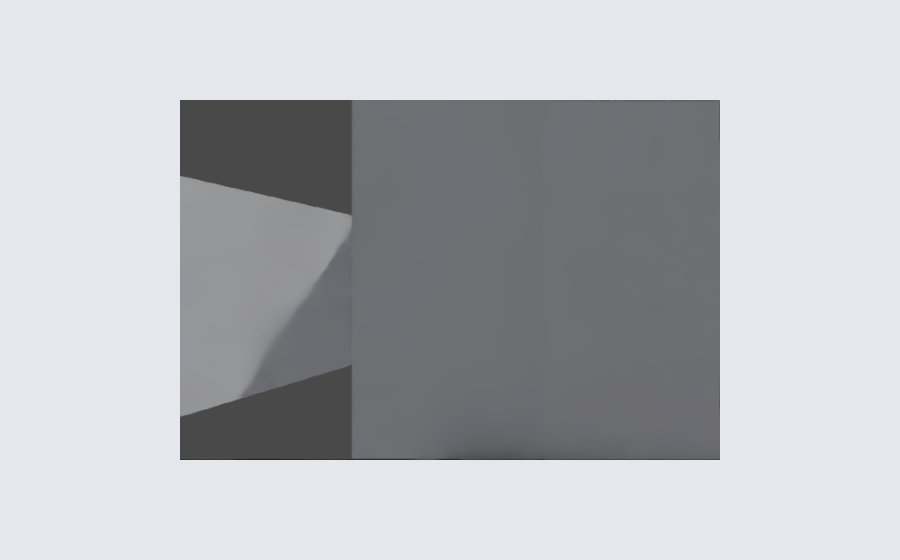
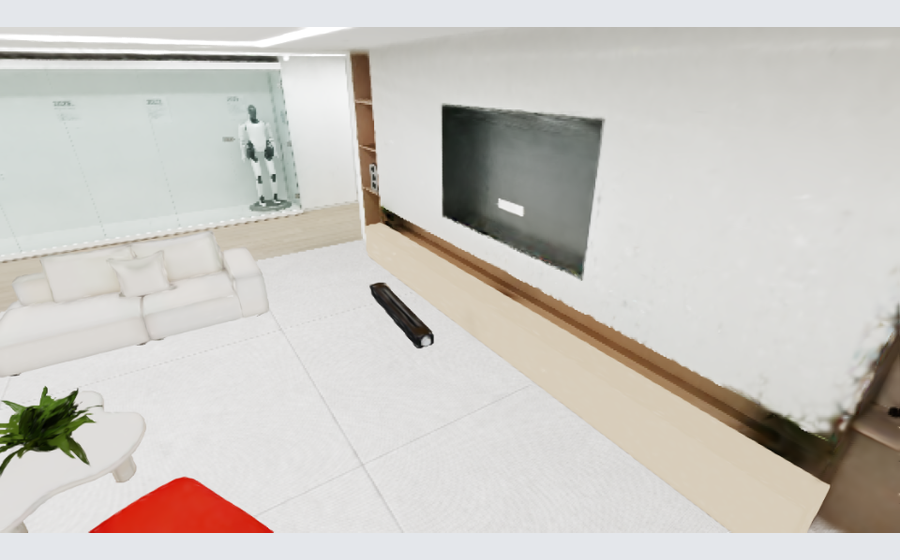
fix: use prepared b1 nurec scene by default

diff --git a/roboclaws/household/b1_nurec_scene.py b/roboclaws/household/b1_nurec_scene.py
@@ -1,0 +1,72 @@
+from __future__ import annotations
+
+import os
+import shutil
+import zipfile
+from pathlib import Path
+
+DEFAULT_B1_NUREC_CACHE_ROOT = Path("output/b1-map12/prepared-nurec-scene")
+_USDZ_REFERENCE = "@./xm_large_scene.usdz@"
+_SCENE_REFERENCE = "@./scene.usd@"
+_USDZ_MEMBERS = ("default.usda", "gauss.usda", "xm_large_scene.nurec")
+
+
+def prepare_b1_nurec_scene_usd(
+    scene_usd_path: Path | None,
+    *,
+    cache_root: Path | None = None,
+) -> Path | None:
+    if scene_usd_path is None:
+        return None
+    scene_usd_path = Path(scene_usd_path)
+    usdz_path = scene_usd_path.with_name("xm_large_scene.usdz")
+    if scene_usd_path.name != "scene_gs.usda" or not usdz_path.is_file():
+        return scene_usd_path
+    source_text = scene_usd_path.read_text(encoding="utf-8")
+    if _USDZ_REFERENCE not in source_text:
+        return scene_usd_path
+
+    cache_dir = _cache_root(cache_root) / scene_usd_path.parent.name
+    unpack_dir = cache_dir / "xm_large_scene_unpacked"
+    unpack_dir.mkdir(parents=True, exist_ok=True)
+    with zipfile.ZipFile(usdz_path) as archive:
+        for member in _USDZ_MEMBERS:
+            _extract_if_needed(archive, member, unpack_dir / member)
+
+    prepared_scene = cache_dir / "scene_gs.unpacked_nurec.usda"
+    prepared_text = source_text.replace(
+        _SCENE_REFERENCE,
+        f"@{scene_usd_path.with_name('scene.usd').resolve().as_posix()}@",
+    ).replace(
+        _USDZ_REFERENCE,
+        f"@{(unpack_dir / 'default.usda').resolve().as_posix()}@",
+    )
+    _write_if_changed(prepared_scene, prepared_text)
+    return prepared_scene
+
+
+def _cache_root(cache_root: Path | None) -> Path:
+    if cache_root is not None:
+        return cache_root
+    return Path(os.environ.get("ROBOCLAWS_B1_NUREC_CACHE_DIR", str(DEFAULT_B1_NUREC_CACHE_ROOT)))
+
+
+def _extract_if_needed(archive: zipfile.ZipFile, member: str, output_path: Path) -> None:
+    info = archive.getinfo(member)
+    if output_path.is_file() and output_path.stat().st_size == info.file_size:
+        return
+    tmp_path = output_path.with_name(f"{output_path.name}.tmp.{os.getpid()}")
+    try:
+        with archive.open(member) as src, tmp_path.open("wb") as dst:
+            shutil.copyfileobj(src, dst)
+        tmp_path.replace(output_path)
+    finally:
+        if tmp_path.exists():
+            tmp_path.unlink()
+
+
+def _write_if_changed(path: Path, text: str) -> None:
+    if path.is_file() and path.read_text(encoding="utf-8") == text:
+        return
+    path.parent.mkdir(parents=True, exist_ok=True)
+    path.write_text(text, encoding="utf-8")

diff --git a/tests/unit/molmo_cleanup/test_isaac_lab_backend.py b/tests/unit/molmo_cleanup/test_isaac_lab_backend.py
@@ -4,12 +4,14 @@ import json
 import math
 import sys
 import types
+import zipfile
 from pathlib import Path
 from types import SimpleNamespace
 
 import pytest
 from PIL import Image, ImageDraw
 
+from roboclaws.household.b1_nurec_scene import prepare_b1_nurec_scene_usd
 from roboclaws.household.isaac_lab_backend import (
     ISAAC_SCENE_INDEX_ARTIFACT_SCHEMA,
     ISAAC_SEMANTIC_POSE_PROVENANCE,
@@ -20,6 +22,71 @@ from roboclaws.household.isaac_lab_backend import (
     IsaacLabSubprocessBackend,
 )
 from scripts.isaac_lab_cleanup import isaac_lab_backend_worker
+
+
+def test_prepare_b1_nurec_scene_unpacks_usdz_reference(tmp_path: Path) -> None:
+    scene_gs = _write_b1_scene_gs_fixture(tmp_path / "storey_1")
+
+    prepared = prepare_b1_nurec_scene_usd(scene_gs, cache_root=tmp_path / "cache")
+
+    assert prepared == tmp_path / "cache" / "storey_1" / "scene_gs.unpacked_nurec.usda"
+    text = prepared.read_text(encoding="utf-8")
+    assert "xm_large_scene.usdz" not in text
+    assert "xm_large_scene_unpacked/default.usda" in text
+    assert (prepared.parent / "xm_large_scene_unpacked" / "xm_large_scene.nurec").read_bytes() == (
+        b"nurec"
+    )
+
+
+def test_isaac_backend_prepares_b1_scene_gs_before_worker_init(
+    tmp_path: Path,
+    monkeypatch: pytest.MonkeyPatch,
+) -> None:
+    scene_gs = _write_b1_scene_gs_fixture(tmp_path / "source")
+    captured_init_args: list[str] = []
+    original_run_worker = IsaacLabSubprocessBackend._run_worker
+    monkeypatch.setenv("ROBOCLAWS_B1_NUREC_CACHE_DIR", str(tmp_path / "cache"))
+
+    def wrapped_run_worker(
+        self: IsaacLabSubprocessBackend,
+        command: str,
+        *args: str,
+    ) -> dict[str, object]:
+        if command == "init":
+            captured_init_args.extend(args)
+        return original_run_worker(self, command, *args)
+
+    monkeypatch.setattr(IsaacLabSubprocessBackend, "_run_worker", wrapped_run_worker)
+
+    IsaacLabSubprocessBackend(
+        run_dir=tmp_path / "run",
+        python_executable=Path(sys.executable),
+        runtime_mode="fake",
+        scene_usd_path=scene_gs,
+    )
+
+    scene_arg = captured_init_args[captured_init_args.index("--scene-usd-path") + 1]
+    assert scene_arg.endswith("scene_gs.unpacked_nurec.usda")
+    assert Path(scene_arg).is_file()
+
+
+def _write_b1_scene_gs_fixture(source_dir: Path) -> Path:
+    source_dir.mkdir()
+    scene_gs = source_dir / "scene_gs.usda"
+    scene_gs.write_text(
+        '#usda 1.0\n'
+        'def Xform "combined" {\n'
+        '    def "sim" (prepend references = @./scene.usd@) {}\n'
+        '    def Xform "gs" (prepend references = @./xm_large_scene.usdz@) {}\n'
+        '}\n',
+        encoding="utf-8",
+    )
+    (source_dir / "scene.usd").write_text("#usda 1.0\n", encoding="utf-8")
+    with zipfile.ZipFile(source_dir / "xm_large_scene.usdz", "w") as archive:
+        archive.writestr("default.usda", "#usda 1.0\n")
+        archive.writestr("gauss.usda", "#usda 1.0\n")
+        archive.writestr("xm_large_scene.nurec", b"nurec")
+    return scene_gs
 
 
 def test_isaac_lab_backend_reports_missing_runtime(tmp_path: Path) -> None:

diff --git a/tests/unit/operator_console/test_render_scene_previews.py b/tests/unit/operator_console/test_render_scene_previews.py
@@ -367,6 +367,51 @@ def test_b1_map12_skip_existing_rewrites_stale_camera_preview_metadata(
     assert "chase" not in metadata["views"]
 
 
+def test_b1_map12_preserves_prepared_nurec_camera_preview_renderer(
+    tmp_path: Path,
+    monkeypatch,
+) -> None:
+    import scripts.operator_console.render_scene_previews as render_scene_previews
+
+    bundle, review = _write_b1_preview_inputs(tmp_path)
+    _patch_b1_preview_inputs(render_scene_previews, monkeypatch, tmp_path, bundle, review)
+    Image.new("RGB", (16, 16), (80, 90, 100)).save(tmp_path / "b1-map12-fpv.png")
+    Image.new("RGB", (16, 16), (100, 90, 80)).save(tmp_path / "b1-map12-chase.png")
+    metadata_path = tmp_path / "b1-map12-preview.json"
+    metadata_path.write_text(
+        json.dumps(
+            {
+                "schema": PREVIEW_METADATA_SCHEMA,
+                "renderer": "static_b1_map12_with_prepared_nurec_camera_previews",
+                "views": {
+                    "fpv": {
+                        "path": "b1-map12-fpv.png",
+                        "provenance": "prepared_b1_nurec_scene_camera_preview",
+                    },
+                    "chase": {
+                        "path": "b1-map12-chase.png",
+                        "provenance": "prepared_b1_nurec_scene_camera_preview",
+                    },
+                    "map": {"path": "b1-map12-map.png"},
+                    "topdown": {"path": "b1-map12-topdown.png"},
+                },
+            },
+            indent=2,
+            sort_keys=True,
+        )
+        + "\n",
+        encoding="utf-8",
+    )
+
+    result = render_b1_map12_preview(output_dir=tmp_path, width=320, height=200)
+
+    assert result["status"] == "rendered"
+    metadata = json.loads(metadata_path.read_text(encoding="utf-8"))
+    assert metadata["renderer"] == "static_b1_map12_with_prepared_nurec_camera_previews"
+    assert metadata["views"]["fpv"]["provenance"] == "prepared_b1_nurec_scene_camera_preview"
+    assert metadata["views"]["chase"]["provenance"] == "prepared_b1_nurec_scene_camera_preview"
+
+
 def test_b1_map12_skip_existing_rewrites_missing_real_camera_files(
     tmp_path: Path,
     monkeypatch,

diff --git a/scripts/operator_console/render_scene_previews.py b/scripts/operator_console/render_scene_previews.py
@@ -52,7 +52,7 @@ B1_RUNTIME_PREVIEW_BUNDLE_DIR = Path(
 )
 B1_SCENE_USD_PATH = Path(
     "data/robot-data-lab/scene-engine/data/"
-    "2rd_floor_seperated/storey_1/configuration/scene_base.usd"
+    "2rd_floor_seperated/storey_1/scene_gs.usda"
 )
 
 
@@ -504,7 +504,10 @@ def render_b1_map12_preview(
         metadata["views"]["chase"] = camera_result["views"]["chase"]
         metadata["camera_preview_artifact"] = camera_result["artifact"]
     elif preserved_camera is not None:
-        metadata["renderer"] = "static_b1_map12_with_isaac_runtime_camera_previews"
+        metadata["renderer"] = (
+            preserved_camera.get("renderer")
+            or "static_b1_map12_with_isaac_runtime_camera_previews"
+        )
         metadata["views"]["fpv"] = preserved_camera["views"]["fpv"]
         metadata["views"]["chase"] = preserved_camera["views"]["chase"]
         if preserved_camera.get("artifact"):
@@ -561,9 +564,16 @@ def _b1_metadata_payload_has_real_camera_previews(payload: dict[str, Any]) -> bo
     chase = views.get("chase")
     if not isinstance(fpv, dict) or not isinstance(chase, dict):
         return False
-    return str(fpv.get("provenance") or "").startswith("isaac_runtime_") and str(
-        chase.get("provenance") or ""
-    ).startswith("isaac_runtime_")
+    return _b1_camera_preview_provenance_is_preservable(fpv) and (
+        _b1_camera_preview_provenance_is_preservable(chase)
+    )
+
+
+def _b1_camera_preview_provenance_is_preservable(view: dict[str, Any]) -> bool:
+    provenance = str(view.get("provenance") or "")
+    return provenance.startswith("isaac_runtime_") or (
+        provenance == "prepared_b1_nurec_scene_camera_preview"
+    )
 
 
 def _b1_existing_real_camera_preview_metadata(
@@ -583,6 +593,7 @@ def _b1_existing_real_camera_preview_metadata(
     return {
         "views": {"fpv": dict(views["fpv"]), "chase": dict(views["chase"])},
         "artifact": dict(payload.get("camera_preview_artifact") or {}),
+        "renderer": str(payload.get("renderer") or ""),
     }
 
 

diff --git a/tests/unit/operator_console/test_operator_console.py b/tests/unit/operator_console/test_operator_console.py
@@ -571,11 +571,13 @@ def test_operator_console_serves_scene_preview_assets(tmp_path: Path) -> None:
             f"http://{host}:{port}/previews/b1-map12-preview.json"
         ) as response:
             preview = json.loads(response.read().decode("utf-8"))
-            assert preview["renderer"] == "static_b1_map12_with_isaac_runtime_camera_previews"
+            assert preview["renderer"] == "static_b1_map12_with_prepared_nurec_camera_previews"
             assert preview["views"]["fpv"]["provenance"] == (
-                "isaac_runtime_robot_mounted_head_camera_fpv"
+                "prepared_b1_nurec_scene_camera_preview"
             )
-            assert preview["views"]["chase"]["provenance"] == "isaac_runtime_report_chase_camera"
+            assert preview["views"]["chase"]["provenance"] == (
+                "prepared_b1_nurec_scene_camera_preview"
+            )
         with pytest.raises(urllib.error.HTTPError) as exc_info:
             urllib.request.urlopen(f"http://{host}:{port}/previews/../app.js")
         assert exc_info.value.code == 404

diff --git a/tests/unit/operator_console/test_routes.py b/tests/unit/operator_console/test_routes.py
@@ -153,11 +153,11 @@ def test_b1_map12_scene_preview_has_static_digital_twin_provenance() -> None:
     assert metadata["schema"] == "operator_console_scene_preview_v1"
     assert metadata["world_id"] == "b1-map12"
     assert metadata["backend"] == "isaaclab"
-    assert metadata["renderer"] == "static_b1_map12_with_isaac_runtime_camera_previews"
+    assert metadata["renderer"] == "static_b1_map12_with_prepared_nurec_camera_previews"
     assert metadata["views"]["fpv"]["view"] == "raw_fpv"
-    assert metadata["views"]["fpv"]["provenance"] == ("isaac_runtime_robot_mounted_head_camera_fpv")
+    assert metadata["views"]["fpv"]["provenance"] == "prepared_b1_nurec_scene_camera_preview"
     assert metadata["views"]["chase"]["view"] == "chase_camera"
-    assert metadata["views"]["chase"]["provenance"] == "isaac_runtime_report_chase_camera"
+    assert metadata["views"]["chase"]["provenance"] == "prepared_b1_nurec_scene_camera_preview"
     assert metadata["map_bundle"] == "vendors/agibot_sdk/artifacts/maps/robot_map_12/agibot"
     assert metadata["review_manifest"] == "assets/maps/b1-map12-alignment-review.json"
     assert metadata["runtime_provenance"]["generated_from_review_manifest"] is True
@@ -508,7 +508,7 @@ def test_b1_map12_open_ended_launch_uses_scene_and_map_bundle(tmp_path) -> None:
     assert "robot_views=on" in argv
     assert (
         "isaac_scene_usd_path=data/robot-data-lab/scene-engine/data/"
-        "2rd_floor_seperated/storey_1/configuration/scene_base.usd"
+        "2rd_floor_seperated/storey_1/scene_gs.usda"
     ) in argv
     assert not any(item.startswith("relocation_count=") for item in argv)
 

diff --git a/tests/unit/operator_console/test_static_assets.py b/tests/unit/operator_console/test_static_assets.py
@@ -325,11 +325,11 @@ def test_static_app_renders_scene_preview_assets() -> None:
     b1_metadata = json.loads((preview_dir / "b1-map12-preview.json").read_text(encoding="utf-8"))
     assert b1_metadata["world_id"] == "b1-map12"
     assert b1_metadata["backend"] == "isaaclab"
-    assert b1_metadata["views"]["fpv"]["provenance"] == (
-        "isaac_runtime_robot_mounted_head_camera_fpv"
+    assert b1_metadata["views"]["fpv"]["provenance"] == "prepared_b1_nurec_scene_camera_preview"
+    assert b1_metadata["views"]["chase"]["provenance"] == (
+        "prepared_b1_nurec_scene_camera_preview"
     )
-    assert b1_metadata["views"]["chase"]["provenance"] == "isaac_runtime_report_chase_camera"
-    assert b1_metadata["views"]["topdown"]["view"] == "semantic_room_topdown"
+    assert b1_metadata["views"]["topdown"]["view"] == "review_label_topdown"
     assert b1_metadata["views"]["map"]["path"] != b1_metadata["views"]["topdown"]["path"]
     assert b1_metadata["views"]["fpv"]["path"] != b1_metadata["views"]["map"]["path"]
     assert b1_metadata["views"]["chase"]["path"] != b1_metadata["views"]["fpv"]["path"]

diff --git a/roboclaws/household/isaac_lab_backend.py b/roboclaws/household/isaac_lab_backend.py
@@ -5,6 +5,7 @@ import os
 from pathlib import Path
 from typing import Any
 
+from roboclaws.household.b1_nurec_scene import prepare_b1_nurec_scene_usd
 from roboclaws.household.camera_control import load_camera_control_request
 from roboclaws.household.subprocess_backend import _scenario_from_worker_payload
 from roboclaws.household.worker_runner import run_json_worker_once, worker_env, worker_timeout_s
@@ -70,6 +71,7 @@ class IsaacLabSubprocessBackend:
         self.runtime_mode = runtime_mode or os.environ.get(
             "ROBOCLAWS_ISAACLAB_RUNTIME_MODE", "real"
         )
+        prepared_scene_usd_path = prepare_b1_nurec_scene_usd(scene_usd_path)
         self.snapshot_artifacts: list[dict[str, Any]] = []
         init_args = [
             "--run-dir",
@@ -92,7 +94,7 @@ class IsaacLabSubprocessBackend:
             include_robot=include_robot,
             robot_name=robot_name,
             map_bundle_dir=map_bundle_dir,
-            scene_usd_path=scene_usd_path,
+            scene_usd_path=prepared_scene_usd_path,
         )
         _extend_segmentation_args(
             init_args,

diff --git a/tests/contract/dev_tools/test_task_agent_just_recipes.py b/tests/contract/dev_tools/test_task_agent_just_recipes.py
@@ -1437,7 +1437,7 @@ def test_b1_public_launch_routes_isaac_backend_to_current_implementation() -> No
     assert route[17] == "isaaclab_subprocess"
     assert route[21] == (
         "data/robot-data-lab/scene-engine/data/"
-        "2rd_floor_seperated/storey_1/configuration/scene_base.usd"
+        "2rd_floor_seperated/storey_1/scene_gs.usda"
     )
     assert route[24:26] == ["household-world", "open-ended"]
     assert route[26] == ""
@@ -1450,7 +1450,7 @@ def test_b1_public_launch_routes_isaac_backend_to_current_implementation() -> No
     assert "b1_alignment_review=assets/maps/b1-map12-alignment-review.json" in target_trace
     assert (
         "isaac_scene_usd_path=data/robot-data-lab/scene-engine/data/"
-        "2rd_floor_seperated/storey_1/configuration/scene_base.usd"
+        "2rd_floor_seperated/storey_1/scene_gs.usda"
     ) in target_trace
     assert "world=b1-map12" in target_trace
     assert "backend=isaaclab_subprocess" in target_trace

diff --git a/roboclaws/launch/worlds.py b/roboclaws/launch/worlds.py
@@ -112,7 +112,7 @@ WORLD_SPECS: dict[str, WorldSpec] = {
             "map_bundle=vendors/agibot_sdk/artifacts/maps/robot_map_12/agibot",
             "b1_alignment_review=assets/maps/b1-map12-alignment-review.json",
             "isaac_scene_usd_path=data/robot-data-lab/scene-engine/data/"
-            "2rd_floor_seperated/storey_1/configuration/scene_base.usd",
+            "2rd_floor_seperated/storey_1/scene_gs.usda",
             "robot_views=on",
         ),
         preview_assets=(